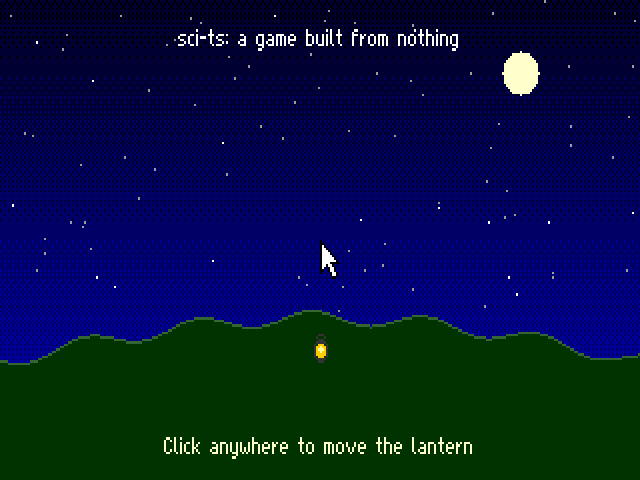
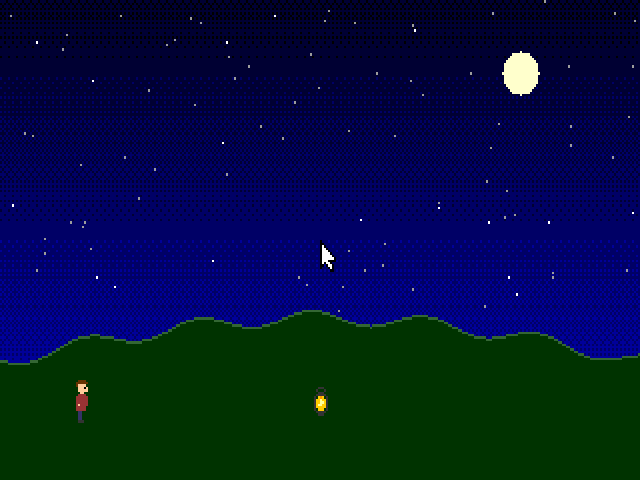
docs: the class library, and milestone 3 done

diff --git a/docs/library.md b/docs/library.md
@@ -1,0 +1,134 @@
+# The class library
+
+Every game built with `pnpm game build` gets sci-ts's class library (`lib/`): the classes a
+point-and-click game is made of, written in the [script language](language.md). It knows
+nothing about any particular game. `games/hello` uses all of it.
+
+| script | file | what |
+|---|---|---|
+| 999 | `lib/999.sc` | the core: `Obj`, `Code`, `Collection`, `List`, `Set`, `Script`; the globals |
+| 998 | `lib/998.sc` | the world: `Game`, `Plane`, `Room`, `Feature`, `View`, `Prop`, `Actor`, `Ego` |
+| 997 | `lib/997.sc` | motion: `Motion`, `MoveTo`, `PolyPath`, `Polygon`; `Cycle`, `Forward`, `Walk`, `End`, `Beg` |
+| 996 | `lib/996.sc` | talk: `TextItem`, `Narrator`, `Messager` |
+| 995 | `lib/995.sc` | input: `Event`, `User` |
+| 994 | `lib/994.sc` | `Sound` |
+
+`lib/system.sh` has the constants games share with the library (verbs, event types,
+polygon types); include it with `(include "system.sh")`. The library also brings a cursor
+for each verb (views 991 to 994, `lib/resources.ts`). A game that wants none of this says so
+in `game.json`: `{ "library": false }`.
+
+## A game
+
+Script 0 exports the game object. The game sets up, names the hero, and goes to its first
+room:
+
+```lisp
+(script 0)
+(include "system.sh")
+(public hello 0)
+
+(class Hello of Game
+  (method (init)
+    (super init:)
+    (= ego hero)
+    (self newRoom: 1)))
+
+(instance hello of Hello)
+(instance hero of Ego (properties view 200 xStep 2 yStep 1))
+```
+
+`Game::play` calls `init`, then `doit` until `quit` is set. Each cycle (`doit`) runs, in
+order: the game's script, the sounds, the room (its script, and whether the hero has walked
+off an edge), everything in the cast (movers, cyclers, scripts), the narrator, `FrameOut`,
+and the player's input. A room change asked for during the cycle happens at its end.
+
+## A room
+
+A room is export 0 of its script. Its number is its script's number, and its message file
+has the same number.
+
+```lisp
+(script 1)
+(include "system.sh")
+(include "hello.sh")              ; the game's nouns
+(public hill 0)
+
+(instance hill of Room
+  (properties picture 100 noun N_HILL east 2)
+  (method (init)
+    (super init:)
+    (self addObstacle: ((Polygon new:) type: PT_CONTAINED init: 0 158 319 158 319 189 0 189))
+    (moon init:)
+    (ego posn: (if (== prevRoomNum 2) 310 else 40) 175 init: setCycle: Walk)))
+
+(instance moon of Feature
+  (properties noun N_MOON nsLeft 250 nsTop 20 nsRight 270 nsBottom 40))
+```
+
+**Exits**: `north`, `south`, `east`, `west` are room numbers; the hero going past `edgeN`,
+`edgeS`, `edgeE` or `edgeW` takes him there. `prevRoomNum` says where he came from.
+
+**Walking**: `addObstacle:` takes `Polygon`s. A `PT_CONTAINED` polygon is the floor;
+`PT_BARRED` ones are things in the way. A click outside the floor walks to its nearest edge.
+
+**Leaving**: when the room goes, so does everything in it (features, views, props), except
+the hero, who is added to the next room by its `init`.
+
+## Things in a room
+
+| class | is | add |
+|---|---|---|
+| `Feature` | a rectangle of the picture (`nsLeft`...`nsBottom`) that answers clicks | `noun`, `modNum` |
+| `View` | a Feature drawn with a view's cel | `view`, `loop`, `cel`, `x`, `y`, `priority` |
+| `Prop` | a View that animates and runs scripts | `setCycle:`, `setScript:`, `cycleSpeed` |
+| `Actor` | a Prop that walks | `setMotion:`, `moveSpeed`, `xStep`, `yStep` |
+| `Ego` | the Actor the player walks | |
+
+`(thing doVerb: verb)` says the line for its `noun` and the verb in the room's message file
+(the room answers if there isn't one).
+
+## Verbs and clicks
+
+The player has four verbs: walk (the first), do, look and talk. Right-click goes to the
+next one, and the cursor changes with it. A click with walk sends the hero there along a
+path around the obstacles (`PolyPath`); with any other verb it goes to the first thing
+under the cursor, cast first, then features, then the room.
+
+## Messages
+
+Message files are text in `games/<name>/messages/<n>.msg`:
+
+```
+messages 1 version 4321
+; noun verb cond seq talker "text"
+2 1 0 1 99 "The moon is full tonight."
+2 1 0 2 99 "Bright enough to read by."
+```
+
+`(messager say: noun verb [cond [seq [caller [module]]]])` says each line in sequence,
+waiting for a click or the time it takes to read, then cues the caller. It returns 0 when
+there's no such message. The narrator shows a line in a box over the room.
+
+## Scripts
+
+A `Script` is a sequence of states: `changeState:` runs one, `cue:` goes to the next.
+A state can wait by setting `cycles`, `ticks` (sixtieths of a second) or `seconds`, after
+which the script cues itself. Movers and cyclers given a script as their `caller` cue it
+when they finish, and so does the messager.
+
+```lisp
+(instance walkIn of Script
+  (method (changeState newState)
+    (= state newState)
+    (switch state
+      (0 (ego setMotion: PolyPath 160 175 self))
+      (1 (messager say: N_MOON V_LOOK 0 1 self))
+      (2 (self dispose:)))))
+```
+
+## Not there yet
+
+Talkers with portraits, dialog windows with buttons, an icon bar, inventory, saving and
+restoring, and the content compiler's target for this library (so rooms can be YAML and
+Yarn). These come next, with the first story: see [plan.md](plan.md).

diff --git a/docs/games.md b/docs/games.md
@@ -16,12 +16,16 @@ SCI_GAME=out/games/hello pnpm play --frames 60 --png-every 60
 ```
 games/hello/
   scripts/0.sc       script 0: exports the game object
-  scripts/999.sc     more scripts, any numbers
+  scripts/1.sc       more scripts: rooms are numbered like their scripts
+  messages/1.msg     message files, as text
+  hello.sh           definitions the scripts include (here, the nouns)
   resources.ts       optional: pictures, views and anything else made in code
+  game.json          optional: { "library": false } to build without the class library
 ```
 
 **Scripts** are written in SCI's Lisp-like language ([language.md](language.md)), as
-`scripts/<n>.sc`. A script can also be hand-written assembly (`scripts/<n>.sca`, described
+`scripts/<n>.sc`, and build on the class library ([library.md](library.md)), which is
+compiled with them: scripts 994 to 999 are its. A script can also be hand-written assembly (`scripts/<n>.sca`, described
 at the top of `packages/sci/src/script/assembly.ts`), and the two can use each other's
 classes. Script 0's first export is the game object, and the interpreter starts the game by
 sending it `play`.
@@ -30,6 +34,9 @@ sending it `play`.
 It imports what it needs from `tools/game/kit.ts`: the writers for pictures, views, fonts and
 palettes, and the base palette's colours. `games/hello/resources.ts` draws a picture and a
 view pixel by pixel.
+
+**Messages** are `messages/<n>.msg`, one file per room (or other module), in the text form
+`pnpm msg` prints: a `messages N version V` line, then `noun verb cond seq talker "text"`.
 
 **Defaults.** Unless the game makes its own, the build adds:
 
@@ -43,19 +50,21 @@ view pixel by pixel.
 
 ## What the build does
 
-1. Compiles the `.sc` scripts together and assembles them and any `.sca` scripts. Classes
+1. Compiles the `.sc` scripts and the class library together, and assembles them and any
+   `.sca` scripts. Classes
    come from the scripts themselves; a class name nobody defines is reported with its file
    and line.
 2. Numbers selectors as the scripts use them, starting with the nine slots every object
    begins with (`-objID-` to `name`), and writes them to vocab 997.
 3. Writes vocab 996, which says which script defines each class (by species number, which
    each class declares).
-4. Adds `resources.ts`'s resources and the defaults, and refuses any resource made twice.
+4. Adds the message files, `resources.ts`'s resources, the library's and the defaults, and
+   refuses any resource made twice.
 
 ## Classes the interpreter works with
 
-Until there's a class library, a game defines its classes. The interpreter reads
-properties by name, so a class works with a kernel as long as it has the properties the
-kernel reads. `games/hello/scripts/0.sc` has the minimum for a plane (`priority`,
-`inLeft`...`inBottom`, `picture`, `back`), a screen item (`x`, `y`, `view`, `loop`, `cel`,
-`plane`, `bitmap`, ...), text drawn by `CreateTextBitmap`, and an event.
+The interpreter reads properties by name, so a class works with a kernel as long as it has
+the properties the kernel reads: a plane needs `priority`, `inLeft`...`inBottom`, `picture`
+and `back`; a screen item `x`, `y`, `view`, `loop`, `cel`, `plane`, `bitmap`; a mover the
+`b-` properties `DoBresen` keeps its place in. The library's classes have them; a game
+without the library has to declare its own.

diff --git a/docs/plan.md b/docs/plan.md
@@ -57,25 +57,29 @@ sends, properties, locals and globals, `&rest`, `switch`/`cond`, procedures, exp
 Every line of the library is ours. The language as implemented: [language.md](language.md);
 `games/hello` is written in it, and the compiler's tests run what it compiles.
 
-### 3. The class library
-The smallest set a point-and-click game needs, written in that language:
+### 3. The class library (done)
+The smallest set a point-and-click game needs, written in that language
+([library.md](library.md)):
 
 | | |
 |---|---|
-| core | Obj, Collection/List/Set, Code, Script, Timer |
-| world | Game (the main loop), Room, Region, Feature, View/Prop/Actor/Ego |
-| motion | Motion, MoveTo, PolyPath, Polygon; cycles (Forward, End, Walk) |
-| talk | Messager, Narrator, Talker (portraits), Print and Dialog windows |
-| input | User, Event, cursors and verbs (look, use, talk, walk), an icon bar |
+| core | Obj, Code, Collection/List/Set, Script (with cycles, ticks and seconds) |
+| world | Game (the main loop), Plane, Room (exits, obstacles), Feature, View/Prop/Actor/Ego |
+| motion | Motion, MoveTo, PolyPath, Polygon; cycles (Forward, Walk, End, Beg) |
+| talk | Messager, Narrator, text boxes |
+| input | User, Event, verbs (walk, do, look, talk) with their cursors |
 | sound | Sound (music and effects) |
-| later | inventory, Save/Restore, menus |
 
-Milestone done when a room compiled from YAML shows, the hero walks around it, and clicking a
-feature says its line.
+`games/hello` is built on it: two rooms, a hero who walks around obstacles and from one
+room to the other, and things that answer when looked at or used. Its test plays it.
+
+Not yet: talkers with portraits, dialog windows, an icon bar (milestone 4, which needs
+them for characters and topic menus), and inventory, menus and Save/Restore (later).
 
 ### 4. The content compiler targets it
 A `sci-ts` target next to the existing one (room class, globals, verbs, talkers), so YAML and
-Yarn rooms build against the library; characters, topic menus, flags and cutscenes map onto
+Yarn rooms build against the library (milestone done when a room compiled from YAML shows,
+the hero walks around it, and clicking a feature says its line); characters, topic menus, flags and cutscenes map onto
 its classes. The editor and player start a game at its first room instead of a game-specific
 route to a hero.
 

diff --git a/README.md b/README.md
@@ -73,13 +73,15 @@ SCI_GAME=out/games/hello pnpm viewer   # /play.html
 
 `games/hello` is built from nothing: its scripts, art, font, palette and cursor are all in
 this repository. Scripts are written in SCI's Lisp-like language and compiled
-([docs/language.md](docs/language.md)). See [docs/games.md](docs/games.md).
+([docs/language.md](docs/language.md)), on a class library of our own: rooms, a hero who
+walks where you click, verbs, messages, sound ([docs/library.md](docs/library.md)). See
+[docs/games.md](docs/games.md).
 
 ## Status
 
 The engine and tools work with SCI2 games you own, and games can be built without one,
-with scripts compiled from SCI's own language. Next, in [docs/plan.md](docs/plan.md): a
-class library of our own, and a first story built with it.
+with scripts compiled from SCI's own language on our own class library. Next, in
+[docs/plan.md](docs/plan.md): rooms in YAML and Yarn for the library, and a first story.
 
 Building rooms (the mod builder and the room editor) needs a *target* for the game: a module
 in `tools/targets/` that tells the content compiler the game's room class, globals and verbs,
